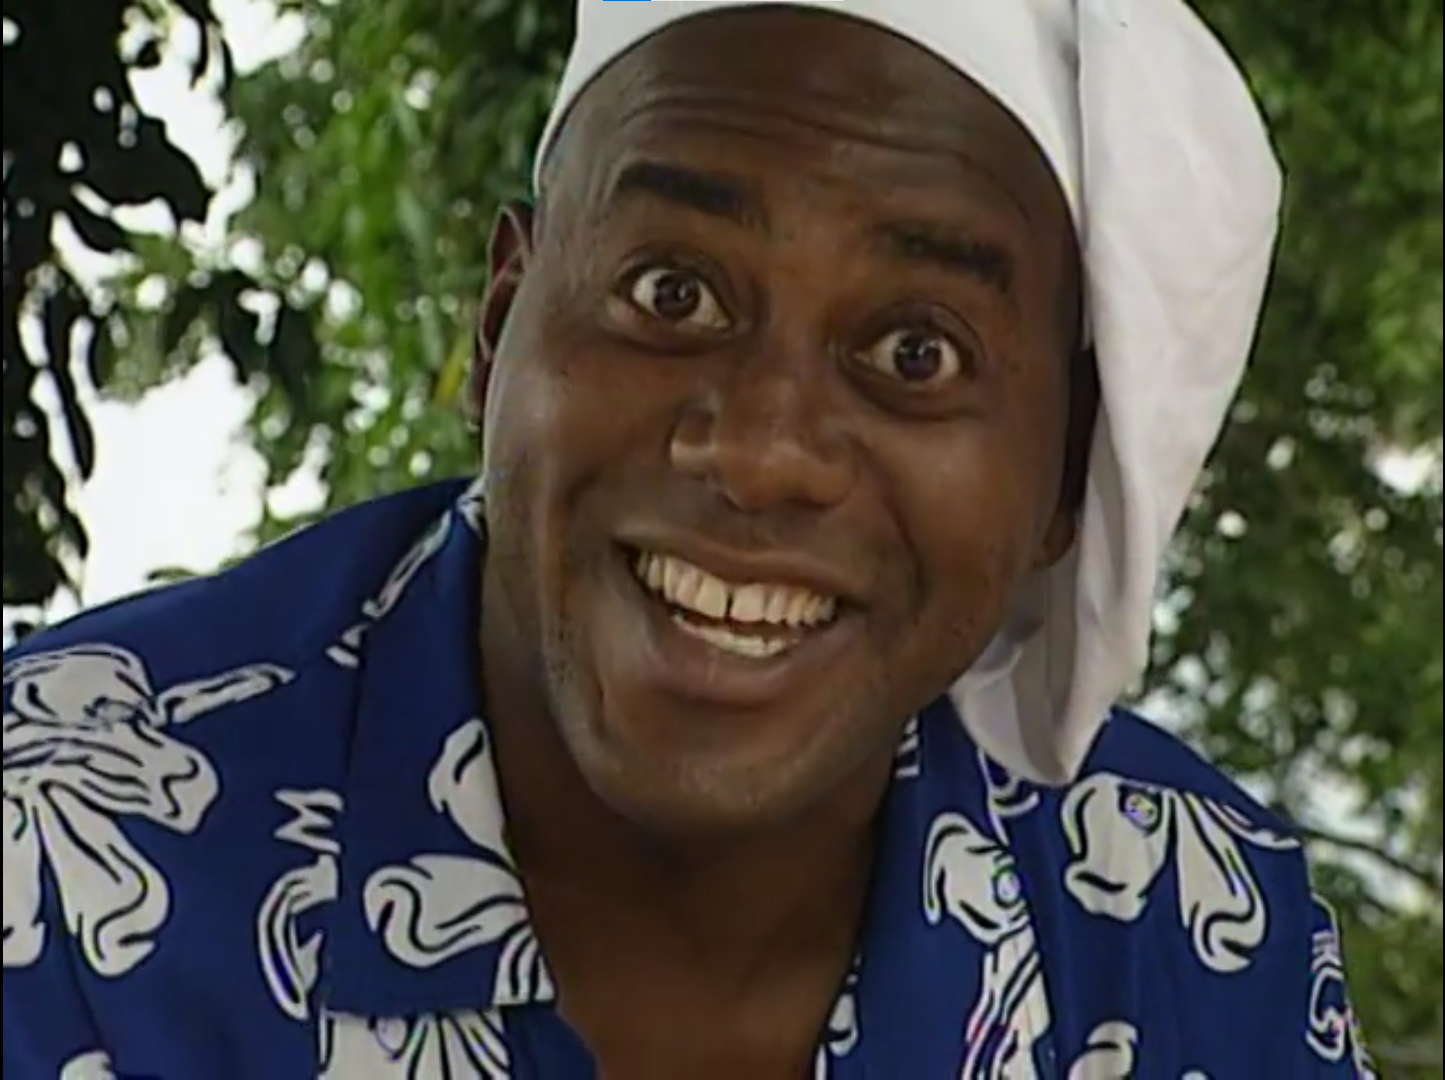
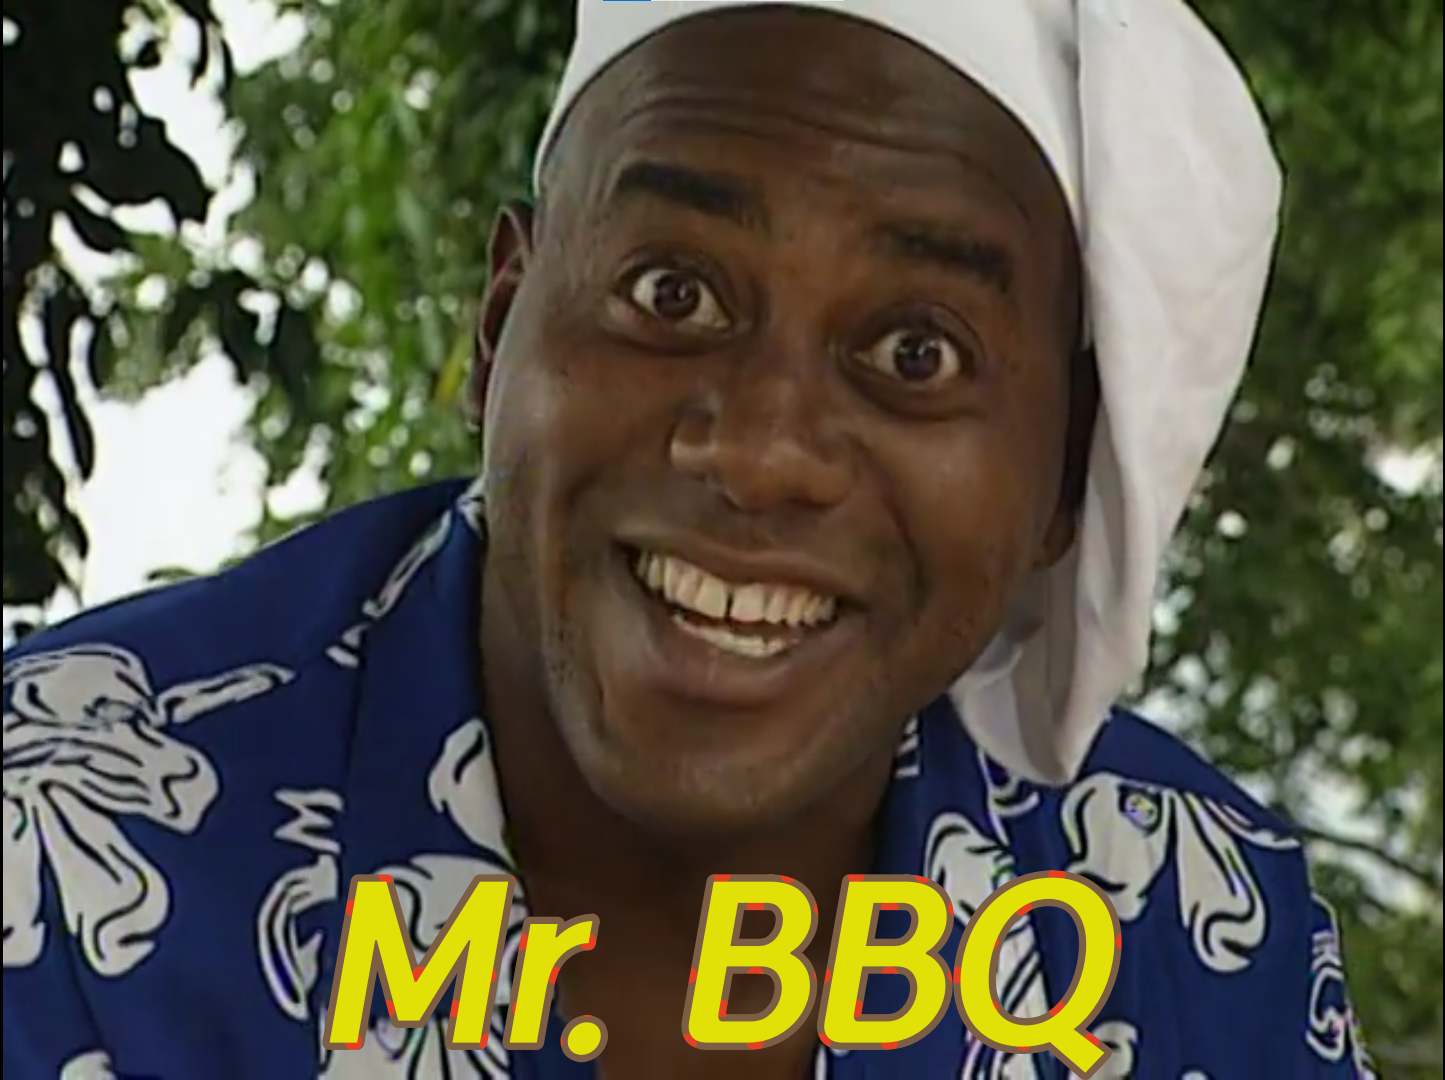
이름 바꿈

Changed region(s): [[0.4671, 0.7944, 0.7785, 1.0], [0.218, 0.7944, 0.436, 0.9778]]

diff --git a/BBQ 충동질 사이트/HTML/여름 바비큐 충동질.html b/BBQ 충동질 사이트/HTML/여름 바비큐 충동질.html
@@ -5,7 +5,7 @@
     <meta http-equiv="X-UA-Compatible" content="IE=edge" />
     <meta name="viewport" content="width=device-width, initial-scale=1.0" />
     <title>여름에는 바비큐를 해라!</title>
-    <link rel="stylesheet" href="../CSS/메인화면.css" />
+    <link rel="stylesheet" href="../CSS/여름 바비큐 충동질.css" />
   </head>
   <body>
     <header>더울수록 기모띠한 BBQ!</header>
@@ -30,8 +30,8 @@
       어디에서는 연기냄새가 나는 가난한 이의 요리라며 무시받기도 하고,<br />
       또 어디에서는 파워풀한 풍미의 별미로써 귀하게 인정받기도 하던 요리.
       <br /><br />
-      이제와서는 세계인의 휴가지에서의 로망, 가족 행사의 상징, <br />심지어는
-      혼밥 문화까지 침투해 있는 놀라운 요리법!
+      현대에는 세계인의 휴가지에서의 로망, 가족 행사의 상징, <br />심지어는 혼밥
+      문화까지 침투해 있는 놀라운 요리법!
       <br />
       <br />불 위에 고기를 얹는 치명적인 바비큐를 준비하라! <br /><br /><br />
       남의 육체를.. 조각내서 빨래처럼 널어놓는 야만스러움!<br />

diff --git a/BBQ 충동질 사이트/CSS/여름 바비큐 충동질.css b/BBQ 충동질 사이트/CSS/여름 바비큐 충동질.css
@@ -2,6 +2,7 @@
 
 body {
   margin: 0px;
+  background-color: seashell;
 }
 
 header {
@@ -17,7 +18,6 @@ header {
 
 footer {
   display: inline-block;
-  height: 100%;
   width: 100%;
   text-align: center;
   background-color: black;
@@ -123,7 +123,7 @@ blockquote::after {
   font-weight: 550;
   color: blueviolet;
   background-color: yellowgreen;
-  border: none;
+  border: 2px solid black;
   border-radius: 15px;
   vertical-align: 175px;
 }
